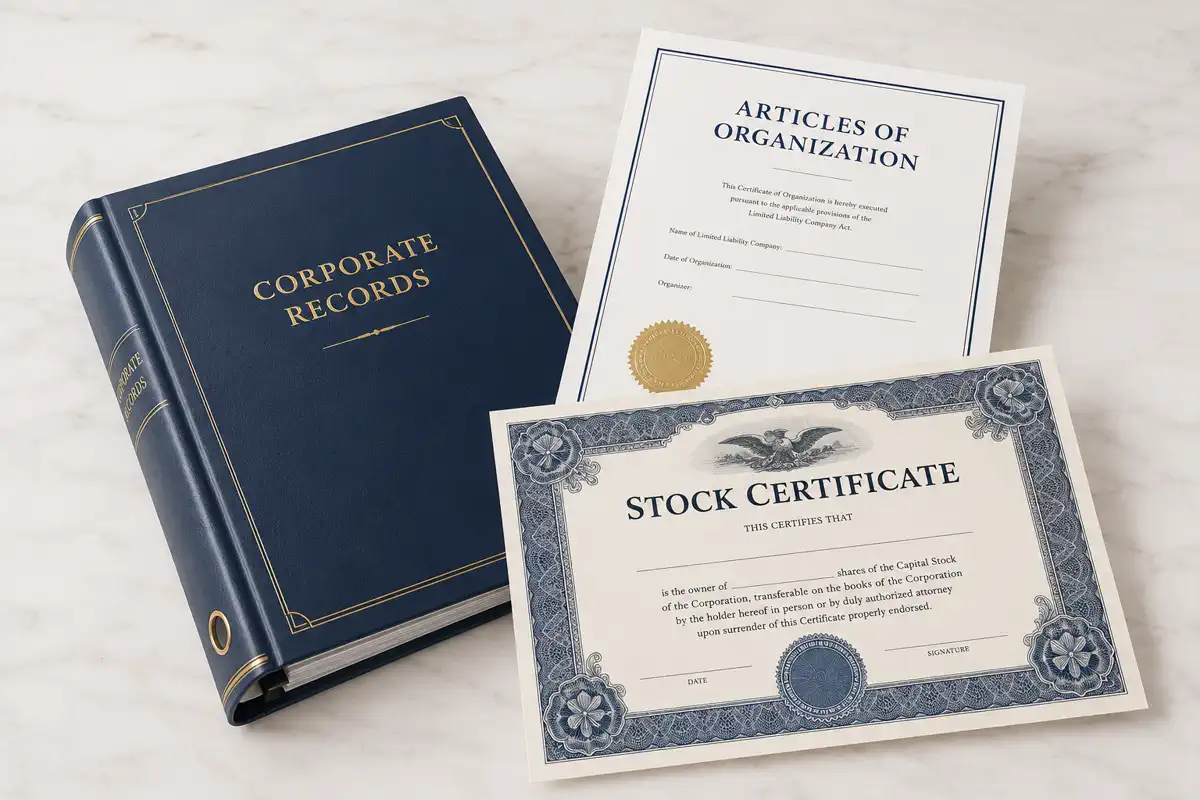
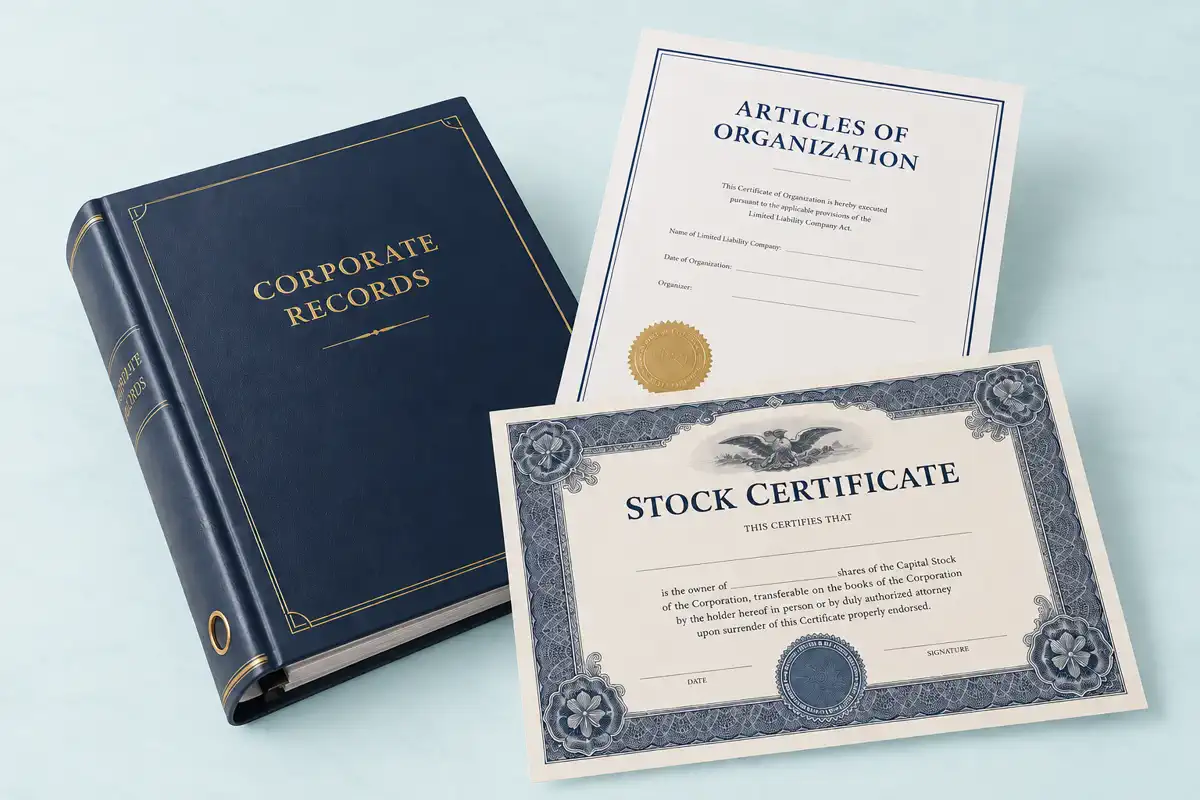
Add cyan hero treatment and soften left fade

diff --git a/llc-formation.css b/llc-formation.css
@@ -125,7 +125,7 @@ body{margin:0;background:#fff;color:var(--navy);font-family:Arial,Helvetica,sans
 }
 
 .hero-crossfade{position:absolute;z-index:1;left:59%;top:0;width:41%;height:27.5%;overflow:visible;background:transparent}
-.hero-crossfade::before{content:"";position:absolute;z-index:2;inset:0 auto 0 0;width:18%;background:linear-gradient(to right,#fff 0%,rgba(255,255,255,.94) 18%,rgba(255,255,255,.55) 52%,rgba(255,255,255,0) 100%);opacity:0;pointer-events:none;animation:heroChecklistFade 16s ease-in-out infinite}
+.hero-crossfade::before{content:"";position:absolute;z-index:2;inset:0 auto 0 0;width:32%;background:linear-gradient(to right,#fff 0%,rgba(255,255,255,.96) 10%,rgba(255,255,255,.78) 30%,rgba(255,255,255,.45) 56%,rgba(255,255,255,.16) 80%,rgba(255,255,255,0) 100%);opacity:0;pointer-events:none;animation:heroChecklistFade 16s ease-in-out infinite}
 .hero-crossfade::after{content:"";position:absolute;z-index:3;top:99.5%;right:0;width:14%;height:35%;background:#fff;opacity:0;pointer-events:none;animation:heroChecklistFade 16s ease-in-out infinite}
 .hero-crossfade .hero-crossfade-slide{position:absolute;inset:0;width:100%;height:100%;object-fit:cover;object-position:center;opacity:0}
 .hero-crossfade-second{animation:heroChecklistFade 16s ease-in-out infinite}

diff --git a/llc-formation.html b/llc-formation.html
@@ -5,7 +5,7 @@
   <meta name="viewport" content="width=device-width,initial-scale=1">
   <title>U.S. LLC Formation | USA Business Access</title>
   <meta name="description" content="USA Business Access LLC formation support for U.S. and international founders.">
-  <link rel="stylesheet" href="/llc-formation.css?v=20260902i">
+  <link rel="stylesheet" href="/llc-formation.css?v=20260902j">
 </head>
 <body>
   <header class="site-header">
